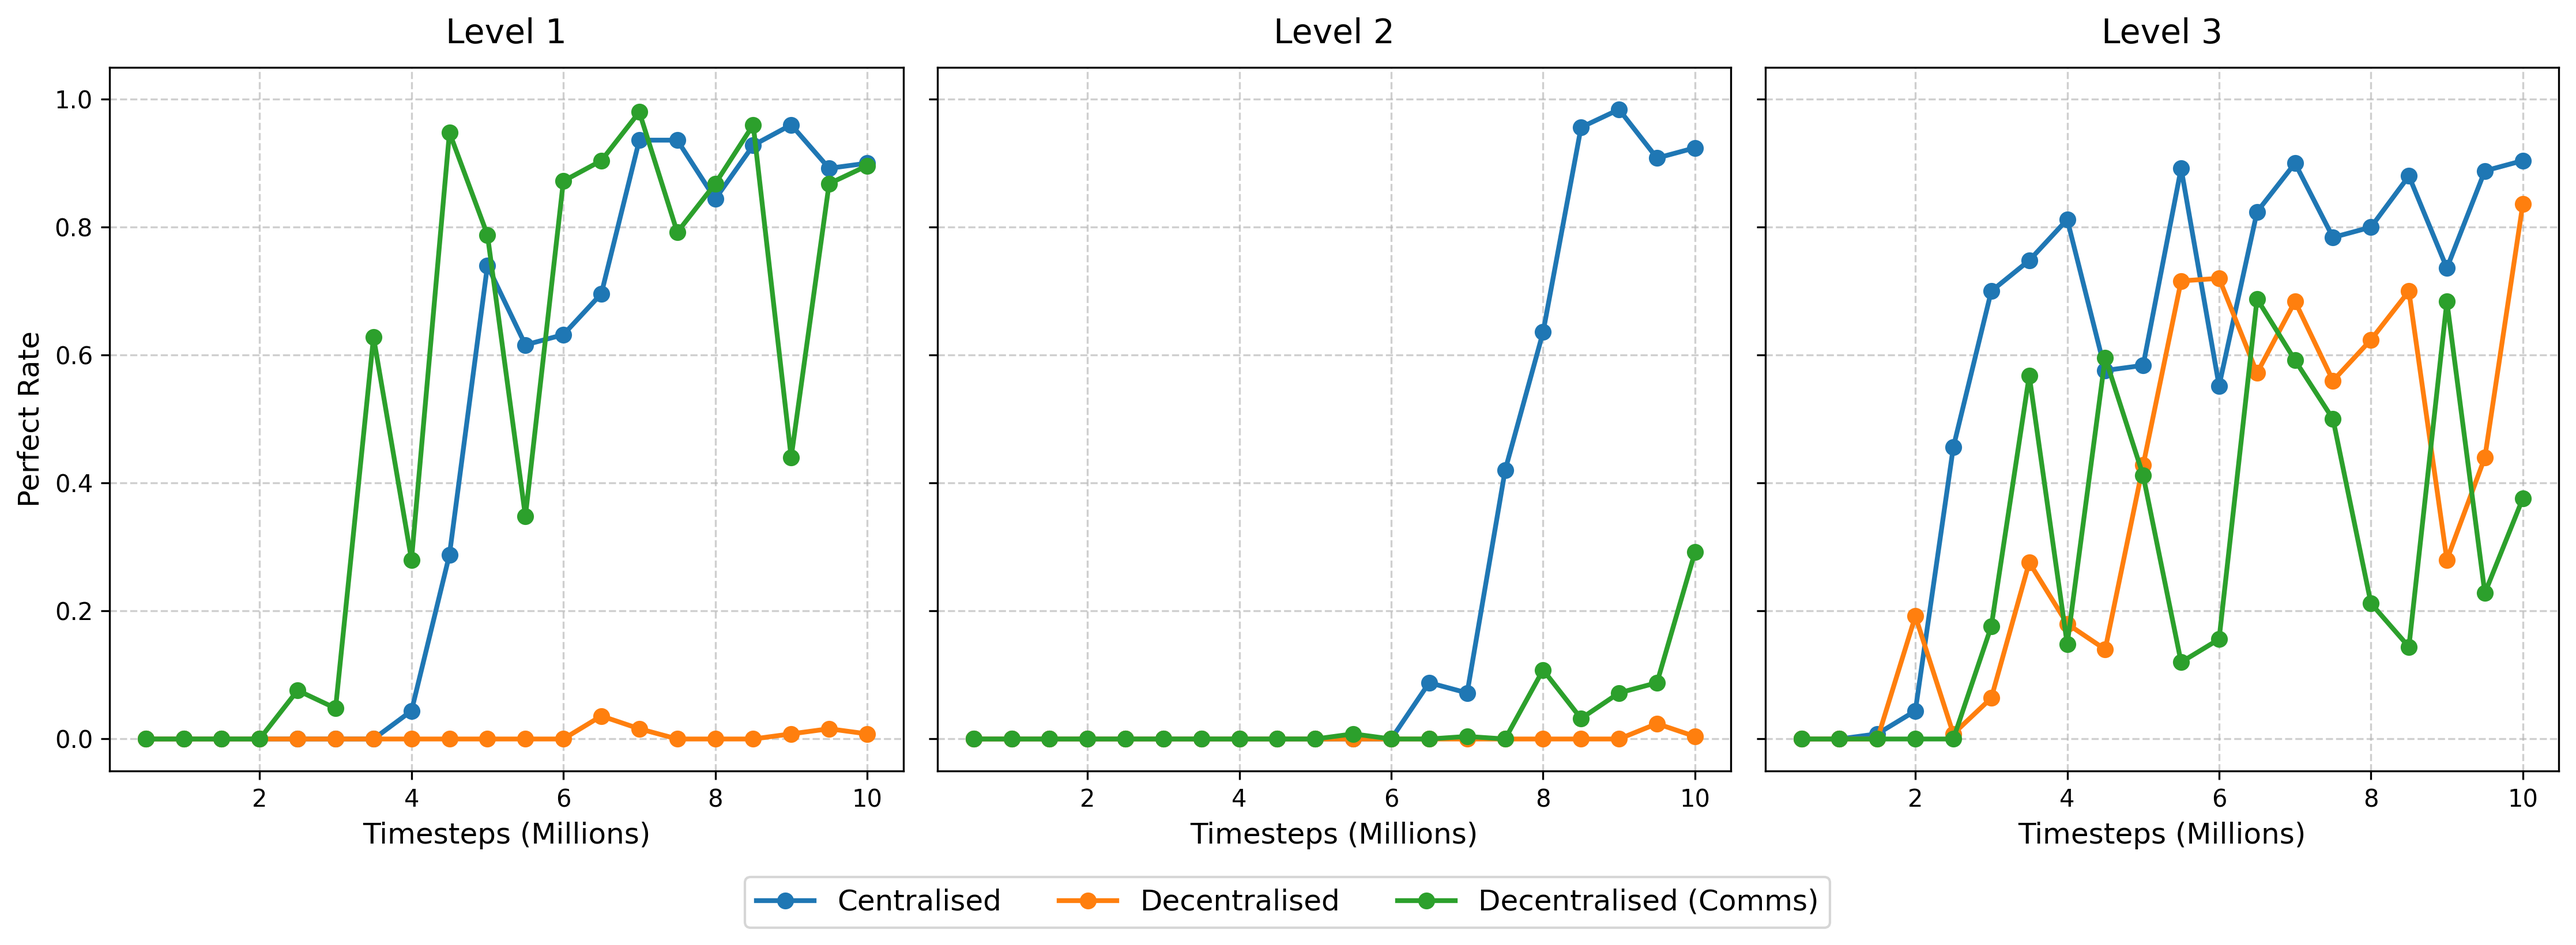
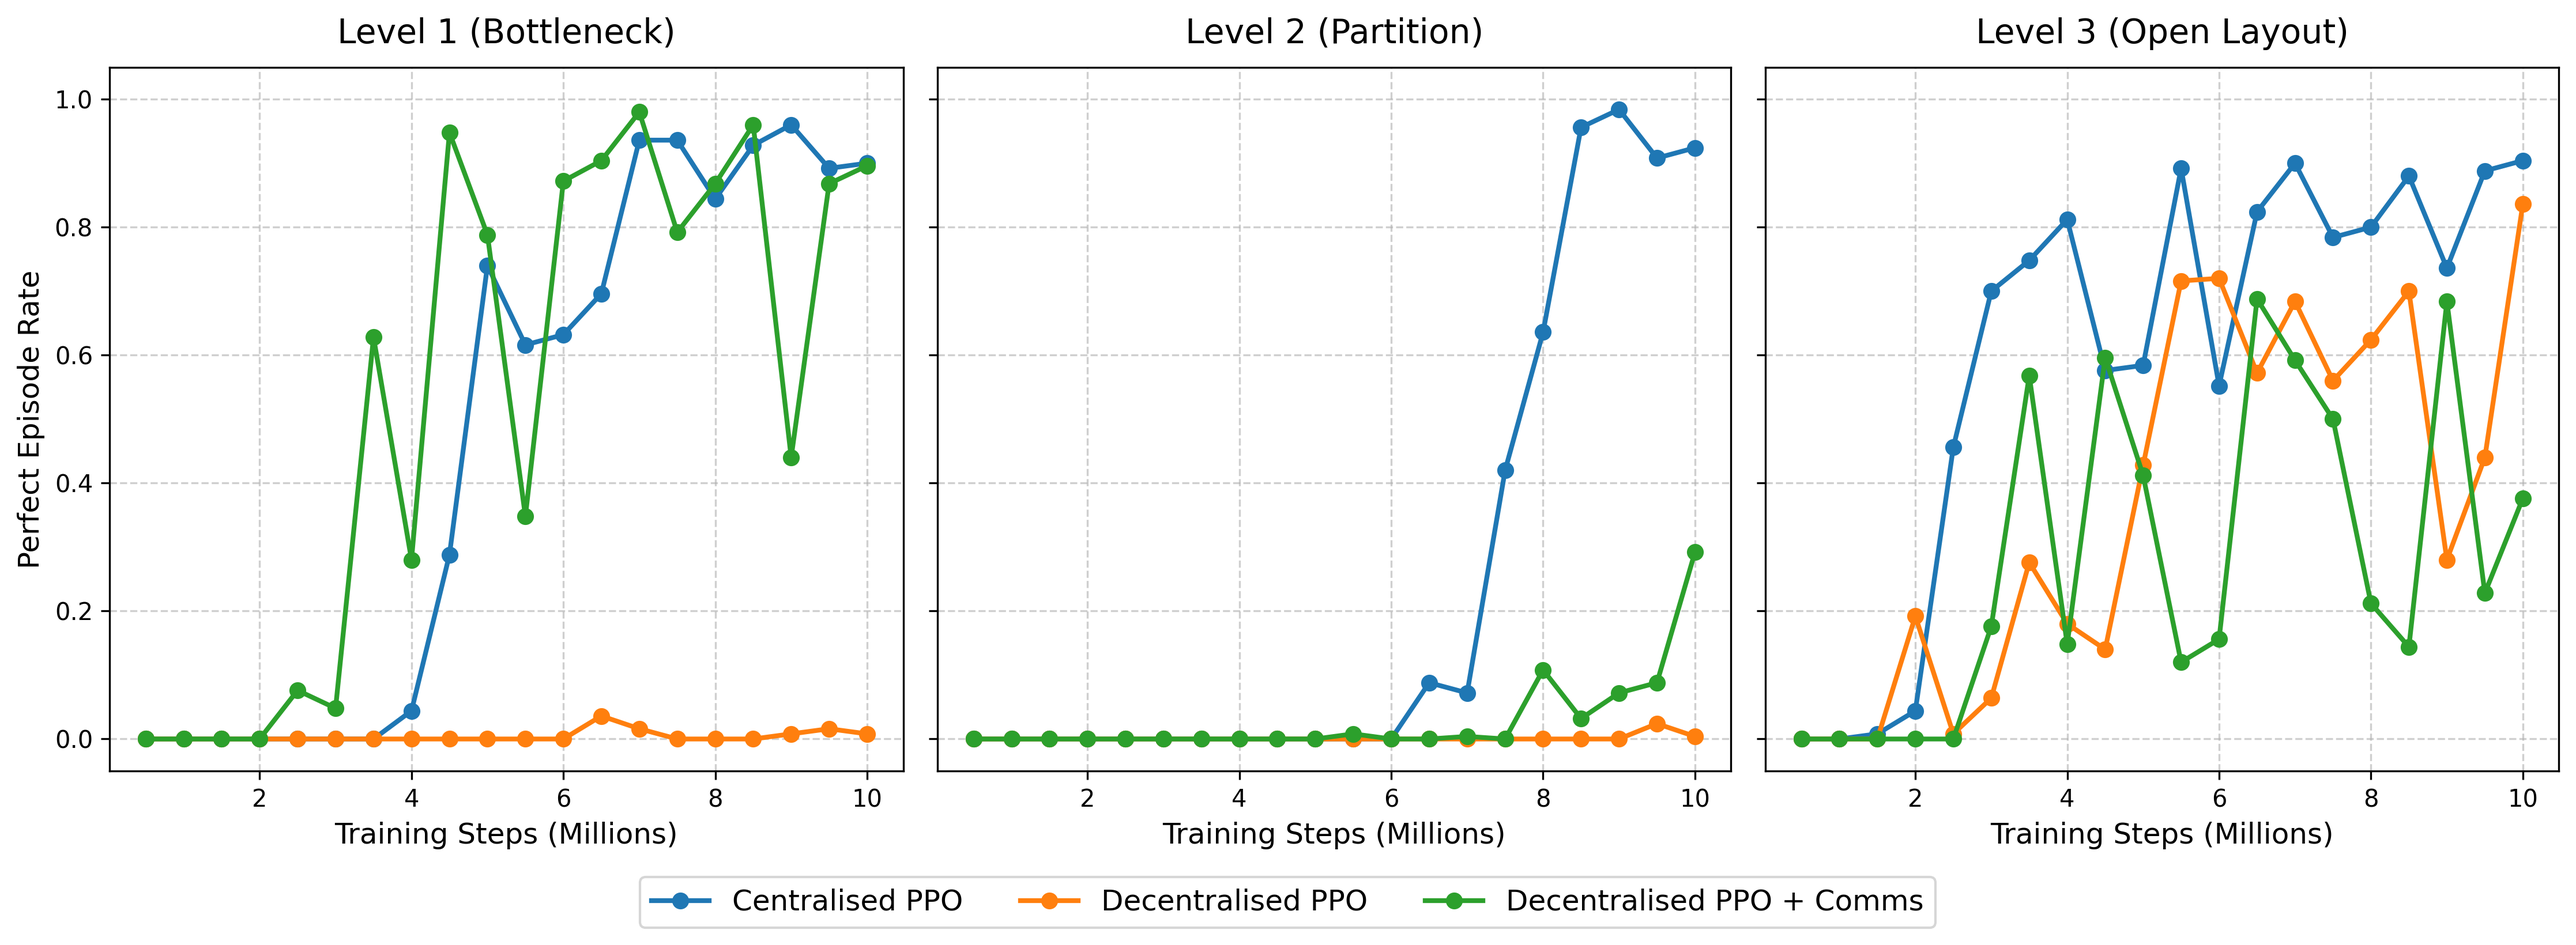
Update level names and improve plot labels for clarity in evaluation scripts

diff --git a/scripts/plot_perfect_rate.py b/scripts/plot_perfect_rate.py
@@ -20,8 +20,9 @@ def load_sweep_data(model, level, steps, metric):
 
 if __name__ == "__main__":
     models = ["centralised", "decentralised", "decentralised_comms"]
-    model_labels = ["Centralised", "Decentralised", "Decentralised (Comms)"]
+    model_labels = ["Centralised PPO", "Decentralised PPO", "Decentralised PPO + Comms"]
     levels = [1, 2, 3]
+    level_names = ["(Bottleneck)", "(Partition)", "(Open Layout)"]
     
     # Checkpoints every 500k up to 10M
     steps = list(range(500000, 10500000, 500000))
@@ -36,12 +37,12 @@ if __name__ == "__main__":
             y_values = load_sweep_data(model, level, steps, "perfect_rate")
             ax.plot(x_vals, y_values, marker='o', linewidth=2, markersize=6, label=model_labels[j])
 
-        ax.set_title(f"Level {level}", fontsize=14, pad=10)
-        ax.set_xlabel("Timesteps (Millions)", fontsize=12)
+        ax.set_title(f"Level {level} {level_names[i]}", fontsize=14, pad=10)
+        ax.set_xlabel("Training Steps (Millions)", fontsize=12)
         
         # Only set the Y-label on the first graph
         if i == 0:
-            ax.set_ylabel("Perfect Rate", fontsize=12)
+            ax.set_ylabel("Perfect Episode Rate", fontsize=12)
 
         # Add a buffer below 0.0 and above 1.0 so points don't sit on the border
         ax.set_ylim(-0.05, 1.05)

diff --git a/scripts/plot_score_mean.py b/scripts/plot_score_mean.py
@@ -20,8 +20,9 @@ def load_sweep_data(model, level, steps, metric):
 
 if __name__ == "__main__":
     models = ["centralised", "decentralised", "decentralised_comms"]
-    model_labels = ["Centralised", "Decentralised", "Decentralised (Comms)"]
+    model_labels = ["Centralised PPO", "Decentralised PPO", "Decentralised PPO + Comms"]
     levels = [1, 2, 3]
+    level_names = ["(Bottleneck)", "(Partition)", "(Open Layout)"]
     
     # Checkpoints every 500k up to 10M
     steps = list(range(500000, 10500000, 500000))
@@ -36,12 +37,12 @@ if __name__ == "__main__":
             y_values = load_sweep_data(model, level, steps, "score_mean")
             ax.plot(x_vals, y_values, marker='o', linewidth=2, markersize=6, label=model_labels[j])
 
-        ax.set_title(f"Level {level}", fontsize=14, pad=10)
-        ax.set_xlabel("Timesteps (Millions)", fontsize=12)
+        ax.set_title(f"Level {level} {level_names[i]}", fontsize=14, pad=10)
+        ax.set_xlabel("Training Steps (Millions)", fontsize=12)
         
         # Only set the Y-label on the first graph
         if i == 0:
-            ax.set_ylabel("Mean Score", fontsize=12)
+            ax.set_ylabel("Mean Orders Served", fontsize=12)
 
         # Add a buffer below 0 and above 3 so points don't sit on the border
         ax.set_ylim(-0.1, 3.2)

diff --git a/environment/levels.py b/environment/levels.py
@@ -41,7 +41,7 @@ LEVELS = {
         "##R#####J##",
     ],
 
-    # 3. The Obstacle Course
+    # 3. The Open Layout
     # An open room where the stations themselves (Pot/Rack) act as central pillars.
     # Tests dynamic navigation where the workspace is also the obstacle. 
     # Agents must learn non-linear paths to avoid collisions in the center.

diff --git a/BENCHMARK.md b/BENCHMARK.md
@@ -266,7 +266,7 @@ I    #    #
 
 A vertical wall splits the map. Agents cannot cross sides, so they have to coordinate through counter handoffs. This forces role separation.
 
-### level_3 - The Obstacle Course
+### level_3 - The Open Layout
 
 ```text
 #####S#####
